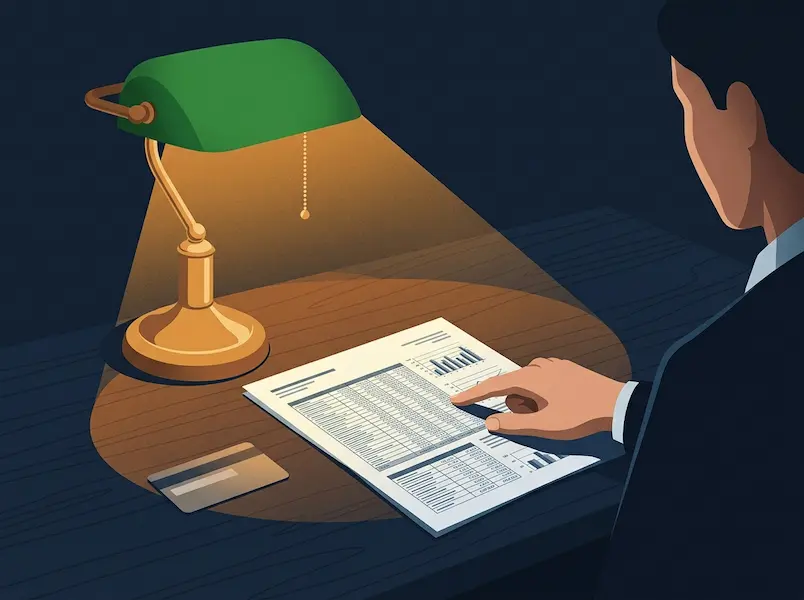
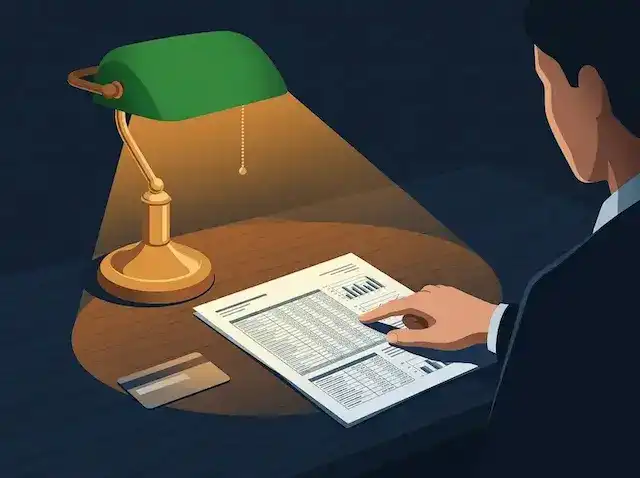
optimized loading

diff --git a/lawyer-page/next-sitemap.config.js b/lawyer-page/next-sitemap.config.js
@@ -3,12 +3,43 @@ const path = require('node:path');
 const matter = require('gray-matter');
 
 const CONTENT_DIR = path.join(__dirname, 'content');
+const APP_DIR = path.join(__dirname, 'src/app');
+
+function mtimeIso(p) {
+  try {
+    return fs.statSync(p).mtime.toISOString();
+  } catch {
+    return null;
+  }
+}
+
+// lastmod для статических страниц — берём mtime исходного файла
+function staticPageLastmod(clean) {
+  const staticMap = {
+    '/': 'page.tsx',
+    '/tseny/': 'tseny/page.tsx',
+    '/kontakty/': 'kontakty/page.tsx',
+    '/ob-advokate/': 'ob-advokate/page.tsx',
+  };
+  if (staticMap[clean]) return mtimeIso(path.join(APP_DIR, staticMap[clean]));
+
+  // хабы — используем mtime intro-файла контента, если есть
+  const hubMatch = clean.match(/^\/([^/]+)\/$/);
+  if (hubMatch) {
+    const intro = mtimeIso(path.join(CONTENT_DIR, hubMatch[1], '_index.mdx'));
+    if (intro) return intro;
+    return mtimeIso(path.join(APP_DIR, '[hub]/page.tsx'));
+  }
+  return null;
+}
 
 // Хабы с enabled:false (см. src/lib/hubs.ts) — их индексы не должны попадать в sitemap
 const DISABLED_HUBS = new Set(['ekonomika', 'sledstvie', 'praktika']);
 
 // lastmod из frontmatter (updated || published) по URL /{hub}/{slug}/
 const lastmodByUrl = new Map();
+// Хабы с noindex:true в _index.mdx — не попадают в sitemap
+const NOINDEX_HUBS = new Set();
 
 function collectContentLastmod() {
   if (!fs.existsSync(CONTENT_DIR)) return;
@@ -16,10 +47,14 @@ function collectContentLastmod() {
     const hubDir = path.join(CONTENT_DIR, hub);
     if (!fs.statSync(hubDir).isDirectory()) continue;
     for (const file of fs.readdirSync(hubDir)) {
-      if (!file.endsWith('.mdx') || file.startsWith('_')) continue;
-      const slug = file.replace(/\.mdx$/, '');
+      if (!file.endsWith('.mdx')) continue;
       const raw = fs.readFileSync(path.join(hubDir, file), 'utf8');
       const fm = matter(raw).data;
+      if (file === '_index.mdx') {
+        if (fm.noindex === true) NOINDEX_HUBS.add(hub);
+        continue;
+      }
+      const slug = file.replace(/\.mdx$/, '');
       const date = fm.updated || fm.published;
       if (date) {
         const url = `/${hub}/${slug}/`;
@@ -44,6 +79,7 @@ module.exports = {
   exclude: [
     '/404',
     ...Array.from(DISABLED_HUBS).flatMap((h) => [`/${h}`, `/${h}/*`]),
+    ...Array.from(NOINDEX_HUBS).flatMap((h) => [`/${h}`, `/${h}/`]),
   ],
   robotsTxtOptions: {
     policies: [
@@ -57,6 +93,14 @@ module.exports = {
         allow: '/',
         disallow: ['/api/', '/_next/data/'],
       },
+      { userAgent: 'GPTBot', allow: '/' },
+      { userAgent: 'OAI-SearchBot', allow: '/' },
+      { userAgent: 'ChatGPT-User', allow: '/' },
+      { userAgent: 'PerplexityBot', allow: '/' },
+      { userAgent: 'ClaudeBot', allow: '/' },
+      { userAgent: 'Claude-Web', allow: '/' },
+      { userAgent: 'Google-Extended', allow: '/' },
+      { userAgent: 'YandexAdditional', allow: '/' },
     ],
   },
   transform: async (config, url) => {
@@ -86,7 +130,7 @@ module.exports = {
       changefreq = 'monthly';
     }
 
-    const lastmod = lastmodByUrl.get(clean) || new Date().toISOString();
+    const lastmod = lastmodByUrl.get(clean) || staticPageLastmod(clean) || new Date().toISOString();
 
     return {
       loc: url,

diff --git a/lawyer-page/src/app/layout.tsx b/lawyer-page/src/app/layout.tsx
@@ -8,11 +8,13 @@ const geistSans = localFont({
   src: "./fonts/GeistVF.woff",
   variable: "--font-geist-sans",
   weight: "100 900",
+  display: "swap",
 });
 const geistMono = localFont({
   src: "./fonts/GeistMonoVF.woff",
   variable: "--font-geist-mono",
   weight: "100 900",
+  display: "swap",
 });
 
 export const metadata: Metadata = {
@@ -118,6 +120,8 @@ export default function RootLayout({
   return (
     <html lang="ru">
       <head>
+        <link rel="preconnect" href="https://mc.yandex.ru" />
+        <link rel="preconnect" href="https://mc.yandex.com" />
         <script
           type="application/ld+json"
           dangerouslySetInnerHTML={{ __html: JSON.stringify(orgJsonLd) }}
@@ -129,13 +133,15 @@ export default function RootLayout({
               m[i].l=1*new Date();
               for (var j = 0; j < document.scripts.length; j++) {if (document.scripts[j].src === r) { return; }}
               k=e.createElement(t),a=e.getElementsByTagName(t)[0],k.async=1,k.src=r,a.parentNode.insertBefore(k,a)})
-              (window, document, "script", "https://mc.yandex.ru/metrika/tag.js", "ym");
+              (window, document, "script", "https://mc.yandex.ru/metrika/tag.js?id=111984647", "ym");
 
-              ym(92326839, "init", {
+              ym(111984647, "init", {
+                  ssr:true,
+                  webvisor:true,
                   clickmap:true,
-                  trackLinks:true,
+                  ecommerce:"dataLayer",
                   accurateTrackBounce:true,
-                  webvisor:true
+                  trackLinks:true
               });
             `,
           }}
@@ -143,7 +149,7 @@ export default function RootLayout({
         <noscript>
           <div>
             <img
-              src="https://mc.yandex.ru/watch/92326839"
+              src="https://mc.yandex.ru/watch/111984647"
               style={{ position: "absolute", left: "-9999px" }}
               alt=""
             />

diff --git a/lawyer-page/src/app/[hub]/page.tsx b/lawyer-page/src/app/[hub]/page.tsx
@@ -22,12 +22,14 @@ export async function generateMetadata({ params }: { params: Promise<{ hub: stri
   const { hub } = await params;
   if (!isEnabledHub(hub)) return {};
   const cfg = HUBS[hub as HubKey];
+  const intro = getHubIntro(hub as HubKey);
   const url = `${SITE_URL}/${hub}/`;
   return {
     title: `${cfg.title} — Адвокат Песков`,
     description: cfg.description,
     alternates: { canonical: url },
     openGraph: { type: 'website', url, title: cfg.title, description: cfg.description },
+    robots: intro?.noindex ? { index: false, follow: true } : undefined,
   };
 }
 
@@ -65,11 +67,9 @@ export default async function HubIndexPage({ params }: { params: Promise<{ hub: 
         )}
       </div>
 
-      <div className={styles.body}>
-        <h2>Материалы раздела</h2>
-        {items.length === 0 ? (
-          <p>Материалы готовятся.</p>
-        ) : (
+      {items.length > 0 && (
+        <div className={styles.body}>
+          <h2>Материалы раздела</h2>
           <ul>
             {items.map((c) => (
               <li key={c.frontmatter.slug}>
@@ -80,8 +80,8 @@ export default async function HubIndexPage({ params }: { params: Promise<{ hub: 
               </li>
             ))}
           </ul>
-        )}
-      </div>
+        </div>
+      )}
     </article>
   );
 }

diff --git a/lawyer-page/src/lib/content.ts b/lawyer-page/src/lib/content.ts
@@ -84,14 +84,18 @@ export function getAllContent(): ContentItem[] {
   return out;
 }
 
-export type HubIntro = { title?: string; body: string } | null;
+export type HubIntro = { title?: string; body: string; noindex?: boolean } | null;
 
 export function getHubIntro(hub: HubKey): HubIntro {
   const filePath = path.join(CONTENT_DIR, hub, '_index.mdx');
   const raw = readFileIfExists(filePath);
   if (raw == null) return null;
   const parsed = matter(raw);
-  return { title: (parsed.data.title as string) || undefined, body: parsed.content };
+  return {
+    title: (parsed.data.title as string) || undefined,
+    body: parsed.content,
+    noindex: parsed.data.noindex === true,
+  };
 }
 
 export function getContentByHub(hub: HubKey): ContentItem[] {

diff --git a/lawyer-page/src/app/HomePage.module.css b/lawyer-page/src/app/HomePage.module.css
@@ -15,7 +15,7 @@
   width: 100%;
   max-width: 959px;
   height: 512px;
-  background-image: url('/131.webp'); /* Укажите реальный путь */
+  background-image: url('/1312.webp'); /* Укажите реальный путь */
   background-size: cover; /* Полностью заполнит блок */
   background-position: center; /* Центрирует изображение */
   background-repeat: no-repeat;

diff --git a/lawyer-page/src/app/page.tsx b/lawyer-page/src/app/page.tsx
@@ -31,6 +31,12 @@ import Link from "next/link";
 export default function HomePage() {
   return (
     <div className={styles.container}>
+      <link
+        rel="preload"
+        as="image"
+        href="/1312.webp"
+        fetchPriority="high"
+      />
       <section className={styles.heroSection}>
         <div className={styles.heroTextContainer}>
           <h1 className={styles.heroTitle}>

diff --git a/lawyer-page/src/app/kontakty/ContactPage.module.css b/lawyer-page/src/app/kontakty/ContactPage.module.css
@@ -15,7 +15,7 @@
     width: 100%;
     max-width: 960px;
     height: 512px;
-    background-image: url('/131.webp'); 
+    background-image: url('/1312.webp'); 
     background-size: cover;
     background-position: center top;
     position: relative;
